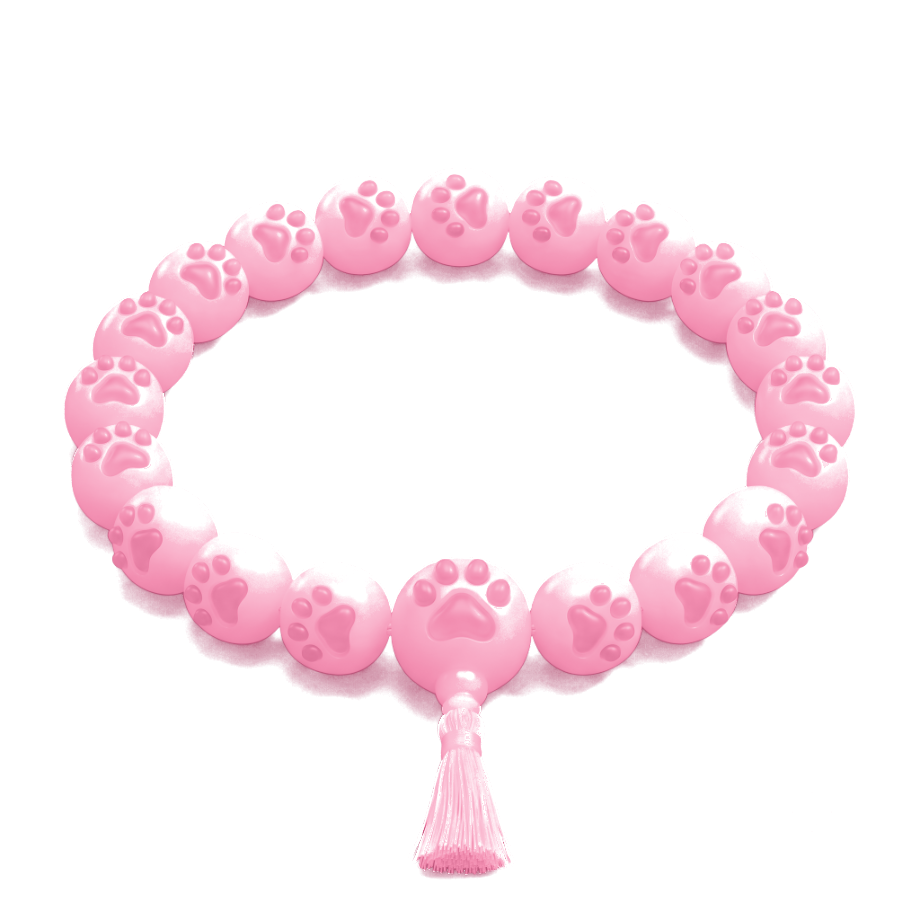
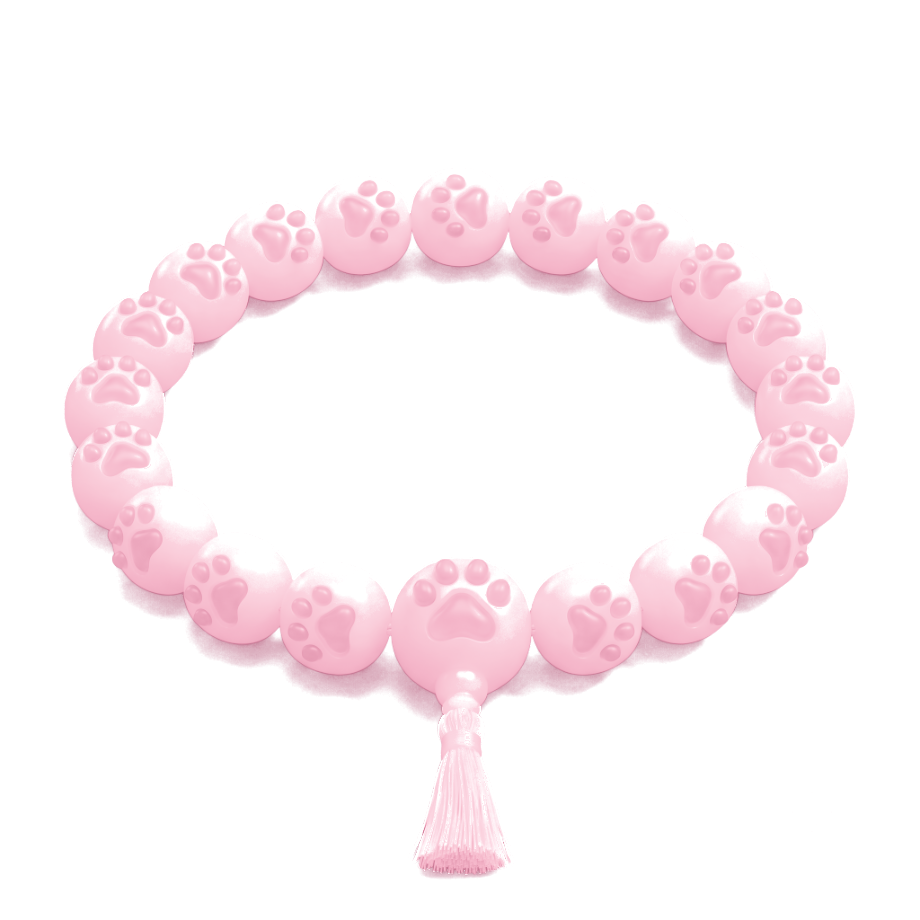
묵은 조각을 되살리고, 염주는 한 타에 한 알씩 돈다
■ 「이 페이지를 불러올 수 없습니다」의 정체
  형: 「인연 프로필 채우려면 계속 이렇게 뜸」
  판을 배포하면 조각(chunk) 이름에 박힌 판 번호가 통째로 갈린다. 폰에
  이미 열려 있던 판은 **옛 번호**를 쥐고 있으니, 거기서 방을 옮기는
  순간 없는 파일을 부르러 가고 거기서 죽는다. 하루에 몇 번씩 올리는
  베타라 형 폰에서는 이게 늘 일어난다.
  넘어진 까닭이 묵은 조각이면 그 자리에서 판을 다시 연다(한 번만).

■ 가로 염주 — 한 타에 한 알
  형: 「108번에 맞게 딱딱, 다시 원래대로 잘 돌아가도록」
  네 타에 한 칸씩 돌렸더니 세 타 동안 고리가 가만히 있었다 — 쳤는데
  안 움직이니 「안 돈다」로 읽힌다.
  고리는 스물일곱, 한 바퀴는 백여덟. **27 × 4 = 108** 이다. 한 타에 한
  알씩 돌리고 스물일곱이 다 물들면 그것이 한 마디, 마디 넷이 한 바퀴.
  알이 스물일곱에서 하나로 돌아가는 것도 고리에서는 한 칸 더 도는
  것이라(27 ≡ −1) 끊기는 자리가 없다.

■ 연분홍 · 황금
  형: 「핑크 염주 연분홍이라고」 「좆같은 누런 노란색이 아니라 황금색」
  분홍은 한 눈금 더 연하게(다만 색기는 그대로 — 처음 허예 보였던 건
  연해서가 아니라 색기가 없어서였다).
  금은 노랑과 금을 가르는 것이 **색이 아니라 폭**이라, 그늘을 구리빛까지
  깊게 내리고 반짝이를 거의 흰빛까지 세웠다.

■ 키캡 — 동자가 너무 잠겼다
  형: 「동자승 키캡 너무 내려간다」. 11% → 7%. 살갗마다 따로 줄 수 있게
  --keycap-dip 으로 뺐다.

■ 인연 공덕 갈래
  서버가 `yeon-owed` 에 적어 두던 매칭 공덕(30)을 받을 갈래가 아예
  없었다 — 갈래 `inyeon` 을 세운다(값 30 · 하루 천장 300).

Changed region(s): [[0.0609, 0.1826, 0.9435, 0.8217], [0.4565, 0.8522, 0.5478, 0.9739]]

diff --git a/src/components/FreshChunks.tsx b/src/components/FreshChunks.tsx
@@ -1,0 +1,83 @@
+"use client";
+
+// ─────────────────────────────────────────────────────────────
+// 묵은 조각 — 배포가 지나간 뒤 열려 있던 판을 되살린다.
+//
+// 형: 「인연 프로필 채우려면 계속 이렇게 뜸」 (This page couldn't load)
+//
+// 무슨 일인가 —
+//   Next 는 판을 조각(chunk)으로 잘라 두고, 방을 옮길 때 그 방 몫만
+//   따로 받아 온다. 조각 이름에는 **판 번호**가 박혀 있다.
+//   그런데 배포를 한 번 하면 그 번호가 통째로 갈린다. 폰에 이미 열려
+//   있던 판은 **옛 번호**를 쥐고 있으니, 거기서 방을 옮기는 순간
+//   없는 파일을 부르러 간다 → 받아오지 못하고 「이 페이지를 불러올 수
+//   없습니다」.
+//   베타라 하루에도 몇 번씩 올리니, 형 폰에서는 이게 늘 일어난다.
+//
+// 고치는 법은 하나뿐이다 — **판을 새로 받는다.**
+//   묵은 조각 때문에 넘어진 것을 알아보고 그 자리에서 다시 연다.
+//   무한히 되풀이하지 않게 한 번만(세션에 표를 남긴다).
+//
+// 왜 화면에 아무것도 안 그리나 — 이건 물건이 아니라 **고치는 일**이다.
+// 사람 눈에는 「눌렀더니 잠깐 깜빡하고 열렸다」로만 보이면 된다.
+// ─────────────────────────────────────────────────────────────
+
+import { useEffect } from "react";
+
+const 표 = "hwadu.freshen";
+
+/** 묵은 조각 때문에 넘어진 것인가 */
+function 묵었나(x: unknown): boolean {
+  const m =
+    typeof x === "string"
+      ? x
+      : x instanceof Error
+        ? `${x.name} ${x.message}`
+        : String(x ?? "");
+  return (
+    /ChunkLoadError/i.test(m) ||
+    /Loading chunk [\w-]+ failed/i.test(m) ||
+    /Loading CSS chunk/i.test(m) ||
+    // 사파리는 남의 말로 적는다 — 「가져오기 모듈 스크립트 실패」
+    /error loading dynamically imported module/i.test(m) ||
+    /Importing a module script failed/i.test(m)
+  );
+}
+
+export default function FreshChunks() {
+  useEffect(() => {
+    // 무사히 한 판 떴으면 표를 지운다 — 다음에 또 넘어져도 한 번은 준다
+    try {
+      window.sessionStorage.removeItem(표);
+    } catch {
+      /* 사생활 창에서는 서랍이 막힌다. 그러면 되살리기를 한 번도 안 한다 */
+    }
+
+    const 되살리기 = () => {
+      try {
+        if (window.sessionStorage.getItem(표)) return; // 이미 한 번 했다
+        window.sessionStorage.setItem(표, "1");
+      } catch {
+        return;
+      }
+      // 주소는 그대로, 판만 새로. replace 라 뒤로 가기에 자국이 안 남는다
+      window.location.replace(window.location.href);
+    };
+
+    const 넘어짐 = (e: ErrorEvent) => {
+      if (묵었나(e.message) || 묵었나(e.error)) 되살리기();
+    };
+    const 삼킨넘어짐 = (e: PromiseRejectionEvent) => {
+      if (묵었나(e.reason)) 되살리기();
+    };
+
+    window.addEventListener("error", 넘어짐);
+    window.addEventListener("unhandledrejection", 삼킨넘어짐);
+    return () => {
+      window.removeEventListener("error", 넘어짐);
+      window.removeEventListener("unhandledrejection", 삼킨넘어짐);
+    };
+  }, []);
+
+  return null;
+}

diff --git a/src/app/moktak/page.tsx b/src/app/moktak/page.tsx
@@ -132,7 +132,7 @@ const PRACTICE_TABS: readonly PracticeTab[] = ["moktak", "yeomju", "bowl", "keyc
 /** 그림 판 번호 — 그림을 고쳐 올려도 **파일 이름이 같으면** 브라우저가
     옛 것을 그대로 쥐고 있다. 형이 「아직 진하다」고 한 게 그것이었다.
     고칠 때마다 이 수를 올리면 새 그림으로 갈린다. */
-const 그림판 = 13;
+const 그림판 = 15;
 const 그림 = (s: string) => `${s}?v=${그림판}`;
 
 const SKINS = {
@@ -773,22 +773,30 @@ export default function MoktakPage() {
                 늘 알 하나가 **정확히** 서 있고, 고리는 제 박자로 돈다.
                 못 박은 알은 없다 — 다 같이 돈다. */}
             {(() => {
-              const 칸 = 360 / RING_BEADS;          // 한 알이 차지하는 각
-              const 타당 = BEADS / RING_BEADS;      // 알 하나가 맡는 타수 = 4
-              const 다찬알 = Math.floor(pos / 타당); // 다 물든 알 수
-              const 안 = (pos % 타당) / 타당;        // 지금 알이 얼마나 찼나
+              // ── 한 타에 한 알 ──────────────────────────────
+              // 형: 「108번에 맞게 딱딱, 다시 원래대로 잘 돌아가도록」
+              //
+              // 네 타에 한 칸씩 돌렸더니 세 타 동안 고리가 가만히 있었다.
+              // 손은 쳤는데 물건이 안 움직이니 「안 돈다」로 읽힌다.
+              //
+              // 고리는 스물일곱 알, 한 바퀴는 백여덟. **27 × 4 = 108** 이다.
+              // 그래서 한 타에 한 알씩 돌리고, 스물일곱이 다 물들면 그것이
+              // **한 마디**다. 마디 넷이 한 바퀴 — 수가 딱 떨어진다.
+              // 알이 스물일곱에서 하나로 돌아가는 것도 고리에서는 그냥
+              // 한 칸 더 도는 것이라(27 ≡ -1), 끊기는 자리가 없다.
+              const 칸 = 360 / RING_BEADS;
+              // 이번 마디에서 몇 알이 물들었나 — 1~27 (한 바퀴 끝은 27)
+              const 번째 = pos === 0 ? 0 : ((pos - 1) % RING_BEADS) + 1;
+              const 앞 = 번째 - 1; // 방금 물든 알이 아래 한가운데 선다
 
               return Array.from({ length: RING_BEADS }, (_, i) => {
-                // 지금 알(i = 다찬알)이 아래 한가운데(180도)에 선다.
-                // 다찬알이 하나 늘면 모든 알의 각이 한 칸씩 줄어 —
-                // 고리가 반시계로 한 칸 돈다
-                const deg = 180 + (i - 다찬알) * 칸;
+                const deg = 180 + (i - 앞) * 칸;
                 const t = deg * (Math.PI / 180);
                 const front = (1 - Math.cos(t)) / 2;
                 const sc = 0.62 + 0.52 * front;
-                // 금은 **지나온 알**에 든다. 지금 알은 차는 중이고,
-                // 아직 안 온 알은 분홍 그대로다
-                const 채움 = i < 다찬알 ? 1 : i === 다찬알 ? 안 : 0;
+                // 금은 지나온 알에 든다. 이번 마디가 끝나면 다 같이 비고
+                // 새 마디가 시작한다
+                const 채움 = i < 번째 ? 1 : 0;
                 const 분홍결 = `brightness(${(1.0 + 0.06 * front).toFixed(2)})`;
                 const 금결 = `brightness(${(1.0 + 0.07 * front).toFixed(2)})`;
                 return (

diff --git a/src/lib/merit.ts b/src/lib/merit.ts
@@ -86,6 +86,10 @@ export type MeritSource =
   | "mung" // 멍 — 아무것도 안 하고 가만히
   | "hasim" // 하심 — 획을 끝까지 내려감
   | "keycap" // 키캡 — 한 번 누름. 형: 「목탁 염주 싱잉볼 옆에 키캡도 하나」
+  // 인연이 닿음 — 서로 합장해서 쪽지방이 열린 그 한 번.
+  // 위의 `gathering`(인연 판의 글·댓글)과 다른 갈래다. 그쪽은 말이고
+  // 이쪽은 **사람**이다. 서버가 `yeon-owed` 에 적어 두면 들어올 때 챙겨 간다
+  | "inyeon"
   | "daily"; // 오늘의 세 가지를 다 마침
 
 /**
@@ -140,6 +144,9 @@ export const MERIT_VALUE: Record<MeritSource, number> = {
   // 키캡 — 한 번 누름(1). 목탁·염주와 같은 값이다. 손가락 하나로 되는
   // 일이니 더 줄 수 없고, 덜 줄 것도 없다. 셋을 나란히 둔다
   keycap: 1,
+  // 인연 한 번 — 양쪽에 같이 붙는다. 하루에 몇 번 일어날 일이 아니라
+  // 값이 커도 저울이 안 기운다(api/yeon/hap 의 MERIT_ON_MATCH 와 같은 수)
+  inyeon: 30,
   candle: 9,
   // 오늘의 운세 — 패 한 장. 오래 「염주」 칸에 적혔다. 한 알(1)짜리 갈래를
   // 스물한 번 곱해 넣는 편법이었는데, 그러면 화면에 「염주 1,012」로 보이고
@@ -182,6 +189,8 @@ export const DAILY_CAP: Record<MeritSource, number> = {
   hwadu: 3240,
   temple: 4320, // 여덟 곳
   gathering: 1620,
+  // 열 번이면 넉넉하다 — 하루에 인연이 열 번 닿을 일은 없다
+  inyeon: 300,
   sutra: 8100, // 반야심경 다섯 편(15분)
   moment: 4320,
   bowl: 2430,
@@ -817,6 +826,7 @@ export const SOURCE_LABEL: Record<MeritSource, string> = {
   hwadu: "화두 회향",
   temple: "절 다녀오기",
   gathering: "인연",
+  inyeon: "인연이 닿음",
   sutra: "경전 외우기",
   moment: "시절인연",
   bowl: "싱잉볼",

diff --git a/src/app/layout.tsx b/src/app/layout.tsx
@@ -10,6 +10,7 @@ import MeritBar from "@/components/MeritBar";
 import MeritToast from "@/components/MeritToast";
 import DailyLotusReward from "@/components/DailyLotusReward";
 import ConfirmProvider from "@/components/Confirm";
+import FreshChunks from "@/components/FreshChunks";
 import VisitLedger from "@/components/VisitLedger";
 import ScrollTop from "@/components/ScrollTop";
 import InstallBanner from "@/components/InstallBanner";
@@ -108,6 +109,9 @@ export default function RootLayout({ children }: LayoutProps<"/">) {
     >
       <body className="flex h-dvh overflow-hidden">
         <ConfirmProvider>
+        {/* 묵은 조각 되살리기 — 배포가 지나간 뒤 열려 있던 판을 다시 연다.
+            형: 「인연 프로필 채우려면 계속 이렇게 뜸」 */}
+        <FreshChunks />
         {/* 발자국 장부 — 화면에 아무것도 그리지 않고, 다녀간 날만 적는다 */}
         <VisitLedger />
         {/* 방을 옮기면 맨 위부터 — 스크롤 통이 창이 아니라 안쪽 div 라 직접 되돌린다 */}

diff --git a/src/app/hip.css b/src/app/hip.css
@@ -4077,7 +4077,11 @@ html[data-theme="light"] {
   /* **쑥** 내려간다 — 형: 「정상적인 크기에서 아래로 쑥 내려가도록」
      물건을 줄여서 깊이를 만드는 게 아니라, 물건은 제 크기로 두고
      **더 멀리** 내려보낸다. 판 밑변에서 잘리니 받침 뒤로 사라진다. */
-  .hip-keycap.on .hip-keycap-buddha { transform: translateY(11%) scaleY(0.965); }
+  /* 형: 「동자승 키캡 너무 내려간다」 — 11% 는 머리까지 잠겼다.
+     연꽃 깊이가 살갗마다 다르니 폭도 따로 준다(--keycap-dip). */
+  .hip-keycap.on .hip-keycap-buddha {
+    transform: translateY(var(--keycap-dip, 7%)) scaleY(0.972);
+  }
   .hip-keycap.on .hip-keycap-cup {
     transform: scaleY(1.035);
     transition: transform 0.07s cubic-bezier(0.3, 0, 0.2, 1);

diff --git a/src/lib/charmPower.ts b/src/lib/charmPower.ts
@@ -50,6 +50,7 @@ const EVERY = Object.keys({
   mung: 1,
   hasim: 1,
   keycap: 1,
+  inyeon: 1,
   daily: 1,
 } satisfies Record<MeritSource, number>) as MeritSource[];
 
